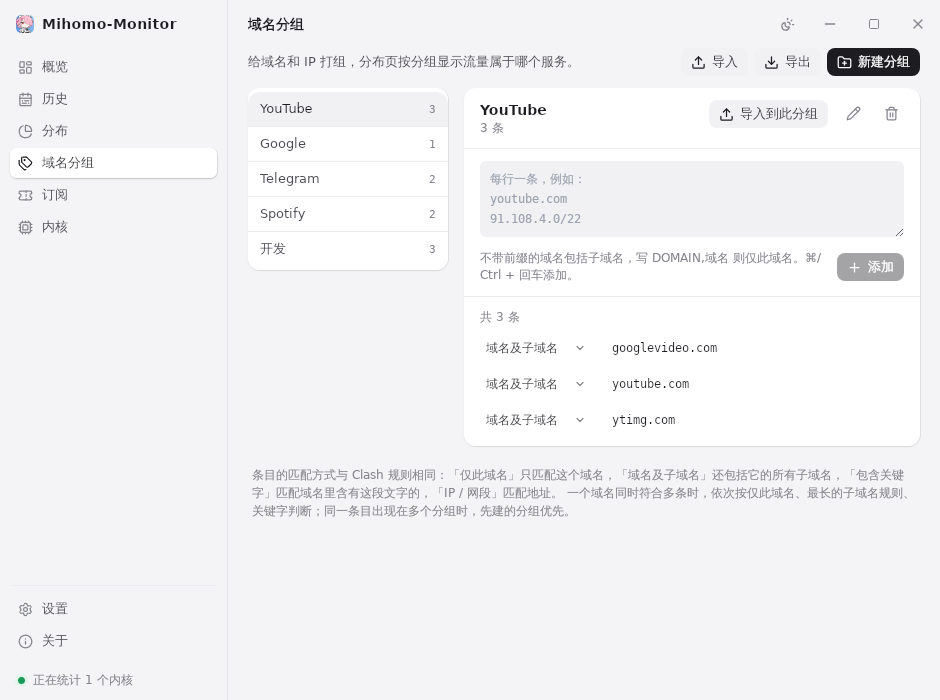
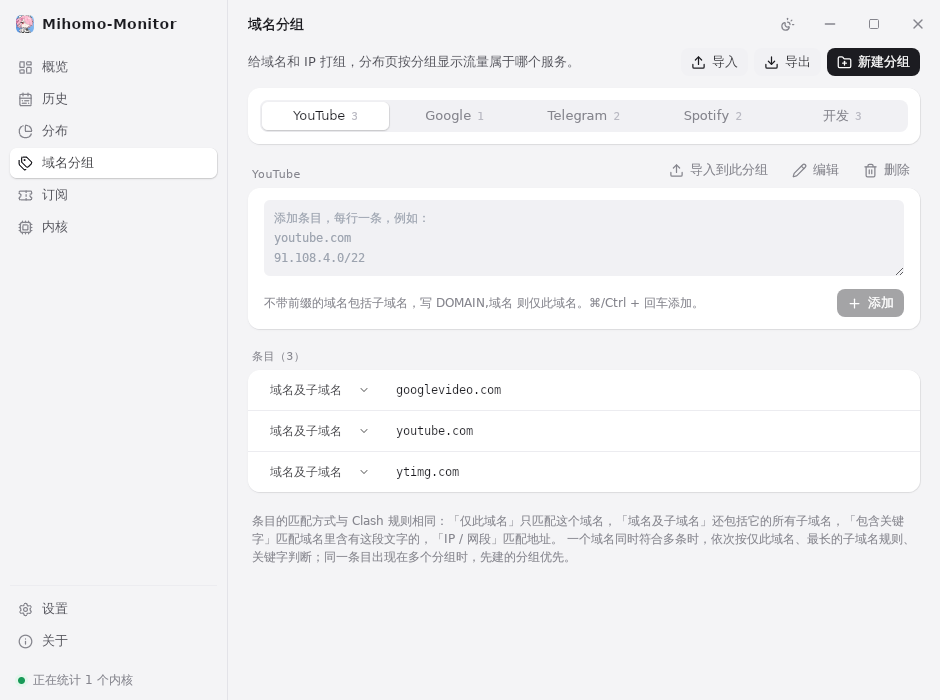
域名分组页改为与 Hydra 配置页一致的分页布局

diff --git a/app/src/pages/GroupsPage.tsx b/app/src/pages/GroupsPage.tsx
@@ -1,7 +1,7 @@
 import { Download, FolderPlus, Loader2, Pencil, Plus, Search, Trash2, Upload } from "lucide-react";
 import { useCallback, useEffect, useMemo, useState } from "react";
 import { ImportDialog } from "@/components/ImportDialog";
-import { Page, PageHeader } from "@/components/PageHeader";
+import { Group, Page, PageHeader } from "@/components/PageHeader";
 import { Button } from "@/components/ui/button";
 import { Dialog } from "@/components/ui/dialog";
 import { Input, Label, Select, Textarea } from "@/components/ui/input";
@@ -84,7 +84,7 @@ function RuleRow({ rule, onChanged }: { rule: HostRule; onChanged: () => void })
     }
   };
   return (
-    <div className="group flex items-center gap-2 px-3 py-1">
+    <div className="group flex items-center gap-2 px-3 py-1.5">
       <Select aria-label="匹配方式" value={rule.kind} onChange={(e) => void save(e.target.value as RuleKind, value)} className="h-7 w-[118px] shrink-0 bg-transparent text-[12px]">
         {KINDS.map((k) => (
           <option key={k} value={k}>
@@ -155,68 +155,65 @@ function GroupDetail({ group, onChanged, onEdit, onImport }: { group: HostGroup;
   }, [group.rules, filter]);
 
   return (
-    <section className="list-card min-w-0">
-      <div className="flex items-start gap-3 px-4 py-3">
-        <div className="min-w-0 flex-1">
-          <div className="truncate text-[14px] font-semibold">{group.name}</div>
-          <div className="truncate text-[11.5px] text-muted">{group.note || `${group.rules.length} 条`}</div>
+    <div className="space-y-5">
+      <Group
+        label={<span className="normal-case">{group.name}</span>}
+        action={
+          <div className="flex items-center gap-1">
+            <Button size="sm" variant="ghost" onClick={onImport}>
+              <Upload />
+              导入到此分组
+            </Button>
+            <Button size="sm" variant="ghost" onClick={onEdit}>
+              <Pencil />
+              编辑
+            </Button>
+            <Button size="sm" variant="ghost" onClick={() => setConfirmDelete(true)}>
+              <Trash2 />
+              删除
+            </Button>
+          </div>
+        }
+      >
+        <div className="space-y-2 px-4 py-3">
+          {group.note && <p className="text-[12.5px] text-muted">{group.note}</p>}
+          <Textarea
+            aria-label="添加条目"
+            value={text}
+            onChange={(e) => setText(e.target.value)}
+            onKeyDown={(e) => {
+              if (e.key === "Enter" && (e.metaKey || e.ctrlKey) && text.trim()) void add();
+            }}
+            placeholder={"添加条目，每行一条，例如：\nyoutube.com\n91.108.4.0/22"}
+            className="min-h-[76px] font-mono"
+          />
+          <div className="flex items-center justify-between gap-3">
+            <p className="text-[11.5px] leading-[17px] text-muted">不带前缀的域名包括子域名，写 DOMAIN,域名 则仅此域名。⌘/Ctrl + 回车添加。</p>
+            <Button size="sm" disabled={busy || !text.trim()} onClick={() => void add()}>
+              {busy ? <Loader2 className="animate-spin" /> : <Plus />}
+              添加
+            </Button>
+          </div>
         </div>
-        <Button size="sm" variant="outline" onClick={onImport}>
-          <Upload />
-          导入到此分组
-        </Button>
-        <Button size="iconSm" variant="ghost" aria-label="编辑分组" title="改名或备注" onClick={onEdit}>
-          <Pencil />
-        </Button>
-        <Button size="iconSm" variant="ghost" aria-label="删除分组" title="删除分组" onClick={() => setConfirmDelete(true)}>
-          <Trash2 />
-        </Button>
-      </div>
+      </Group>
 
-      <div className="space-y-2 px-4 py-3">
-        <Textarea
-          aria-label="添加条目"
-          value={text}
-          onChange={(e) => setText(e.target.value)}
-          onKeyDown={(e) => {
-            if (e.key === "Enter" && (e.metaKey || e.ctrlKey) && text.trim()) void add();
-          }}
-          placeholder={"每行一条，例如：\nyoutube.com\n91.108.4.0/22"}
-          className="min-h-[76px] font-mono"
-        />
-        <div className="flex items-center justify-between gap-3">
-          <p className="text-[11.5px] leading-[17px] text-muted">
-            不带前缀的域名包括子域名，写 DOMAIN,域名 则仅此域名。⌘/Ctrl + 回车添加。
-          </p>
-          <Button size="sm" disabled={busy || !text.trim()} onClick={() => void add()}>
-            {busy ? <Loader2 className="animate-spin" /> : <Plus />}
-            添加
-          </Button>
-        </div>
-      </div>
-
-      <div className="pb-2">
-        <div className="flex items-center gap-2 px-4 pb-1 pt-3">
-          <span className="text-[12px] text-muted">
-            共 {group.rules.length} 条{filter && `，显示 ${shown.length} 条`}
-          </span>
-          {group.rules.length > 8 && (
-            <div className="relative ml-auto w-[180px]">
+      <Group
+        label={`条目（${filter ? `${shown.length} / ` : ""}${group.rules.length}）`}
+        action={
+          group.rules.length > 8 && (
+            <div className="relative w-[180px]">
               <Search className="pointer-events-none absolute left-2 top-1/2 h-3.5 w-3.5 -translate-y-1/2 text-muted" />
               <Input aria-label="筛选条目" placeholder="筛选" value={filter} onChange={(e) => setFilter(e.target.value)} className="h-7 pl-7 text-[12px]" />
             </div>
-          )}
-        </div>
+          )
+        }
+      >
         {group.rules.length === 0 ? (
-          <p className="px-4 py-6 text-center text-[12px] text-muted">还没有条目，在上面添加或导入。</p>
+          <p className="px-4 py-3 text-[12.5px] text-muted">还没有条目，在上面添加或导入。</p>
         ) : (
-          <div className="max-h-[420px] overflow-y-auto">
-            {shown.map((r) => (
-              <RuleRow key={r.id} rule={r} onChanged={onChanged} />
-            ))}
-          </div>
+          shown.map((r) => <RuleRow key={r.id} rule={r} onChanged={onChanged} />)
         )}
-      </div>
+      </Group>
 
       <Dialog
         open={confirmDelete}
@@ -240,7 +237,7 @@ function GroupDetail({ group, onChanged, onEdit, onImport }: { group: HostGroup;
           </>
         }
       />
-    </section>
+    </div>
   );
 }
 
@@ -318,30 +315,35 @@ export function GroupsPage() {
             </div>
           </div>
         ) : (
-          <div className="grid grid-cols-[200px_minmax(0,1fr)] items-start gap-4">
-            <nav aria-label="分组" className="list-card py-1">
-              {groups.map((g) => (
-                <button
-                  key={g.id}
-                  onClick={() => setSelected(g.id)}
-                  aria-current={g.id === selected ? "true" : undefined}
-                  className={cn(
-                    "flex w-full items-center justify-between gap-2 px-3 py-2 text-left text-[12.5px] active:!scale-100",
-                    g.id === selected ? "bg-pill font-medium text-fg" : "text-fg-2 hover:bg-pill/60",
-                  )}
-                >
-                  <span className="truncate">{g.name}</span>
-                  <span className="shrink-0 font-mono text-[11px] tabular-nums text-muted">{g.rules.length}</span>
-                </button>
-              ))}
-            </nav>
+          <div className="space-y-3">
+            <div className="rounded-xl bg-card p-3 shadow-card">
+              <div role="tablist" aria-label="分组" className="flex gap-0.5 overflow-x-auto rounded-lg bg-pill p-0.5">
+                {groups.map((g) => (
+                  <button
+                    key={g.id}
+                    role="tab"
+                    aria-selected={g.id === selected}
+                    onClick={() => setSelected(g.id)}
+                    className={cn(
+                      "flex h-7 min-w-[72px] shrink-0 flex-1 items-center justify-center gap-1.5 whitespace-nowrap rounded-md px-2.5 text-[12.5px] active:!scale-100",
+                      g.id === selected ? "bg-card font-medium text-fg shadow-edge dark:bg-white/[.12]" : "text-muted hover:text-fg",
+                    )}
+                  >
+                    {g.name}
+                    <span className="font-mono text-[10.5px] tabular-nums text-faint">{g.rules.length}</span>
+                  </button>
+                ))}
+              </div>
+            </div>
             {current && (
-              <GroupDetail
-                group={current}
-                onChanged={() => void load()}
-                onEdit={() => setEditing({ open: true, group: current })}
-                onImport={() => setImporting({ open: true, preset: current.id })}
-              />
+              <div key={current.id} className="view-in">
+                <GroupDetail
+                  group={current}
+                  onChanged={() => void load()}
+                  onEdit={() => setEditing({ open: true, group: current })}
+                  onImport={() => setImporting({ open: true, preset: current.id })}
+                />
+              </div>
             )}
           </div>
         )}

diff --git a/app/src/components/PageHeader.tsx b/app/src/components/PageHeader.tsx
@@ -24,7 +24,7 @@ export function Page({ children }: { children: React.ReactNode }) {
 }
 
 /** A labelled group: small uppercase label above a grouped list card. */
-export function Group({ label, action, children, className }: { label?: string; action?: React.ReactNode; children: React.ReactNode; className?: string }) {
+export function Group({ label, action, children, className }: { label?: React.ReactNode; action?: React.ReactNode; children: React.ReactNode; className?: string }) {
   return (
     <section className={className}>
       {(label || action) && (
